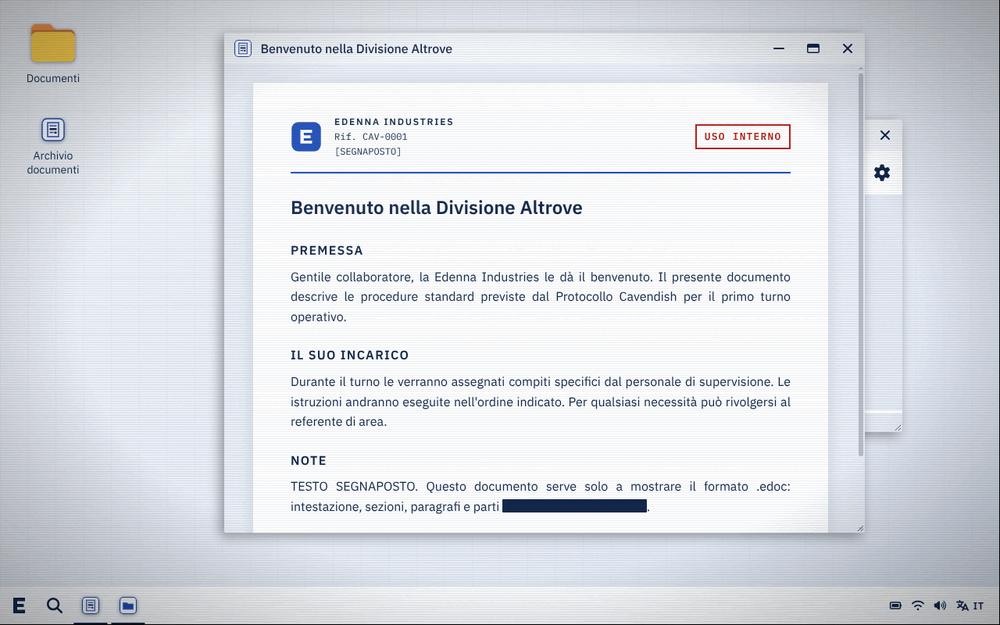
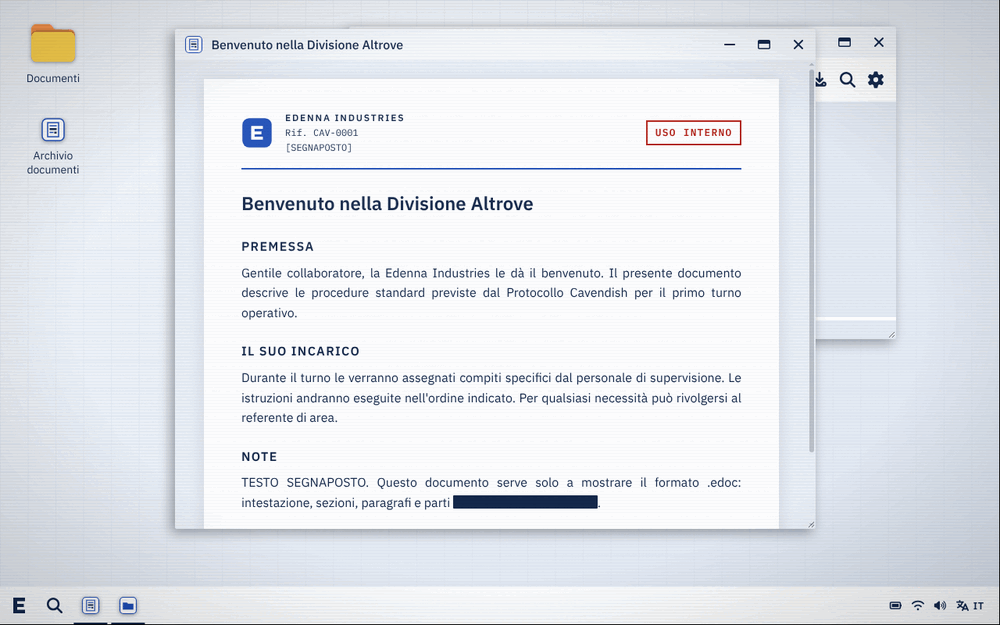
edenna: Effetto CRT sempre attivo ma più discreto
La modalità "terminale" (attiva all'avvio) diventa appena percettibile:
scanline più leggere e rade, vignettatura e curvatura dimezzate.
La modalità "anomalia" mantiene i valori precedenti.

Claude-Session: https://claude.ai/code/session_013UfrVUwSj9W2mG1gk6g7Bs

Changed region(s): [[0.0, 0.0, 1.0, 1.0], [0.0, 0.6384, 0.372, 1.0], [0.992, 0.3344, 1.0, 0.3648]]

diff --git a/edenna/src/crt/modes.ts b/edenna/src/crt/modes.ts
@@ -34,8 +34,10 @@ const OFF: CRTOptions = {
 };
 
 /**
- * Valori di partenza da rifinire a occhio sulla postazione vera:
- * monitor, luminosità e distanza cambiano molto la resa.
+ * Effetto sempre attivo: deve restare appena percettibile, da "monitor aziendale",
+ * senza disturbare la lettura dei documenti.
+ * Valori da rifinire a occhio sulla postazione vera: monitor, luminosità
+ * e distanza cambiano molto la resa.
  */
 const TERMINALE: CRTOptions = {
 	...OFF,
@@ -43,24 +45,26 @@ const TERMINALE: CRTOptions = {
 	// Righe sottili blu scuro: con lo sfondo chiaro di Edenna vanno "moltiplicate" (vedi crt.css).
 	enableScanlines: true,
 	scanlineColor: "#14284B",
-	scanlineOpacity: 0.07,
+	scanlineOpacity: 0.035,
 	scanlineThickness: 1,
-	scanlineGap: 2,
+	scanlineGap: 3,
 	// Nessuna animazione: ogni effetto animato obbliga a ridisegnare tutto lo schermo
 	// a ogni fotogramma (vedi edenna/docs/CRT.md, "Prestazioni"). Per provare la banda
 	// di refresh: enableSweep: true, sweepStyle: "soft", sweepDuration: 14, sweepThickness: 80.
 	enableSweep: false,
-	// Bordi leggermente scuri e vetro curvo.
+	// Bordi appena più scuri e vetro curvo.
 	enableVignette: true,
-	vignetteIntensity: 0.25,
+	vignetteIntensity: 0.12,
 	enableCurvature: true,
-	curvatureIntensity: 0.3,
+	curvatureIntensity: 0.15,
 };
 
 /** Pensata per brevi scoppi (qualche secondo): è la modalità più pesante. */
 const ANOMALIA: CRTOptions = {
 	...TERMINALE,
 	scanlineOpacity: 0.12,
+	scanlineGap: 2,
+	curvatureIntensity: 0.3,
 	enableSweep: true,
 	sweepStyle: "classic",
 	sweepDuration: 3,

diff --git a/edenna/docs/CRT.md b/edenna/docs/CRT.md
@@ -47,7 +47,7 @@ In `edenna/src/App.tsx`:
 | Modalità | Effetti | Uso |
 |---|---|---|
 | `spento` | nessuno | |
-| `terminale` (avvio) | scanline sottili, vignettatura, curvatura del vetro. **Tutto fisso** | Sempre attivo: dà la sensazione di "monitor aziendale" senza disturbare la lettura |
+| `terminale` (avvio) | scanline sottili e rade, bordi appena più scuri, curvatura del vetro. **Tutto fisso e appena percettibile** | Sempre attivo: dà la sensazione di "monitor aziendale" senza disturbare la lettura |
 | `anomalia` | in più: glitch con separazione dei colori, rumore, sfarfallio, banda di refresh veloce | Brevi scoppi per eventi narrativi |
 
 ![Modalità anomalia](img/crt-anomalia.png)
@@ -56,7 +56,7 @@ In `edenna/src/App.tsx`:
 
 | Comando | Effetto |
 |---|---|
-| **Ctrl+Alt+Shift+E** (staff) | Modalità successiva: spento → terminale → anomalia |
+| **Ctrl+Alt+Shift+E** (staff) | Modalità successiva: spento → terminale → anomalia. All'avvio e a ogni reset si riparte da `terminale` |
 | **Ctrl+Alt+Shift+G** (staff) | Anomalia per 3 secondi |
 | `effetto: anomalia` nell'intestazione di un `.edoc` | Anomalia di 2,5 secondi quando il documento viene aperto (attiva nel prototipo su "Nota interna 0147") |
 | `useCrt().glitch(ms)` / `useCrt().setMode(…)` | Da qualsiasi app Edenna |
@@ -116,9 +116,21 @@ Qualsiasi effetto **animato** (banda di refresh, sfarfallio, glitch, rumore) cos
 | **Web Component `<crt-effect>`** | Indipendente da React | Nessun vantaggio qui: Edenna è già React |
 | **Shader WebGL scritto da noi** | Distorsione vera dello schermo (curvatura reale), prestazioni migliori con la GPU | Molto più lavoro; non esiste un modo semplice di passare il DOM a uno shader |
 
+## Regolazione
+
+Scelta attuale: effetto **sempre attivo ma discreto**. Valori della modalità `terminale` in `edenna/src/crt/modes.ts`:
+
+| Parametro | Valore | Effetto se lo si aumenta |
+|---|---|---|
+| `scanlineOpacity` | 0.035 | Righe più scure |
+| `scanlineGap` | 3 | Righe più rade |
+| `vignetteIntensity` | 0.12 | Bordi dello schermo più scuri |
+| `curvatureIntensity` | 0.15 | Angoli più scuri e arrotondati (effetto vetro) |
+
+La modalità `anomalia` usa valori propri, più forti, e non dipende da questi.
+
 ## Prossimi passi proposti
 
 1. **Prova sul PC del kiosk** (vedi "Prestazioni") e regolazione a occhio delle intensità in `modes.ts`: monitor e distanza cambiano molto la resa.
-2. **Decidere la modalità di avvio**: `terminale` o `spento`, con l'effetto attivato solo in certi momenti della storia.
-3. **Collegare le anomalie alla narrazione**: documenti specifici (già possibile con `effetto: anomalia`), azioni dei giocatori, o comandi dello staff da un'altra postazione (serve un canale di rete).
-4. **App "terminale legacy"** con un preset scuro (`fallout`/`dos`) solo nella sua finestra, se serve un contrasto tra la Edenna "moderna" e sistemi più vecchi.
+2. **Collegare le anomalie alla narrazione**: documenti specifici (già possibile con `effetto: anomalia`), azioni dei giocatori, o comandi dello staff da un'altra postazione (serve un canale di rete).
+3. **App "terminale legacy"** con un preset scuro (`fallout`/`dos`) solo nella sua finestra, se serve un contrasto tra la Edenna "moderna" e sistemi più vecchi.
